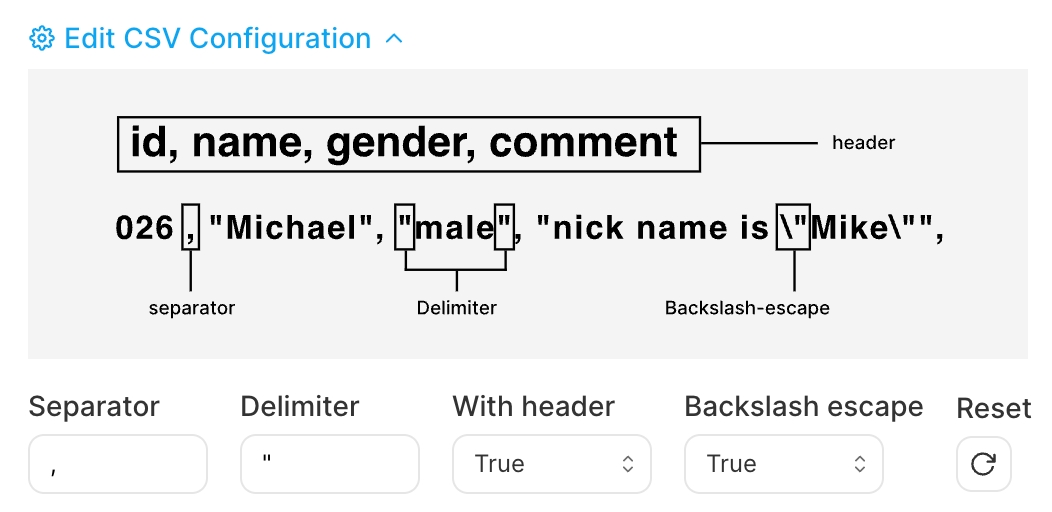
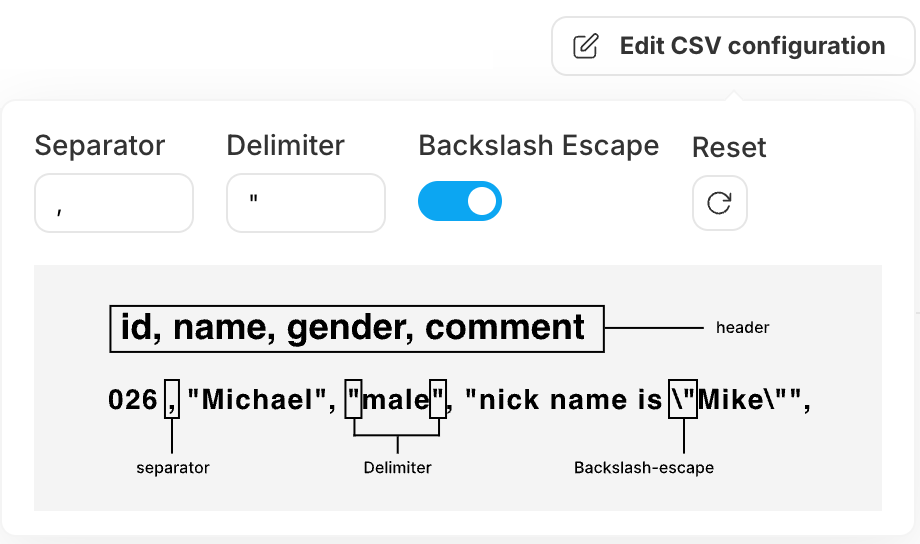
update Edit CSV configuration

diff --git a/tidb-cloud/csv-config-for-import-data.md b/tidb-cloud/csv-config-for-import-data.md
@@ -33,12 +33,6 @@ The following is the CSV Configuration window when you use the Import Data servi
 
 - Default: `"`
 
-## With header
-
-- Definition: whether *all* CSV files contain a header row. If **With header** is `True`, the first row is used as the column names. If **With header** is `False`, the first row is treated as an ordinary data row.
-
-- Default: `True`
-
 ## Backslash escape
 
 - Definition: whether to parse backslash inside fields as escape characters. If **Backslash escape** is `True`, the following sequences are recognized and converted:
